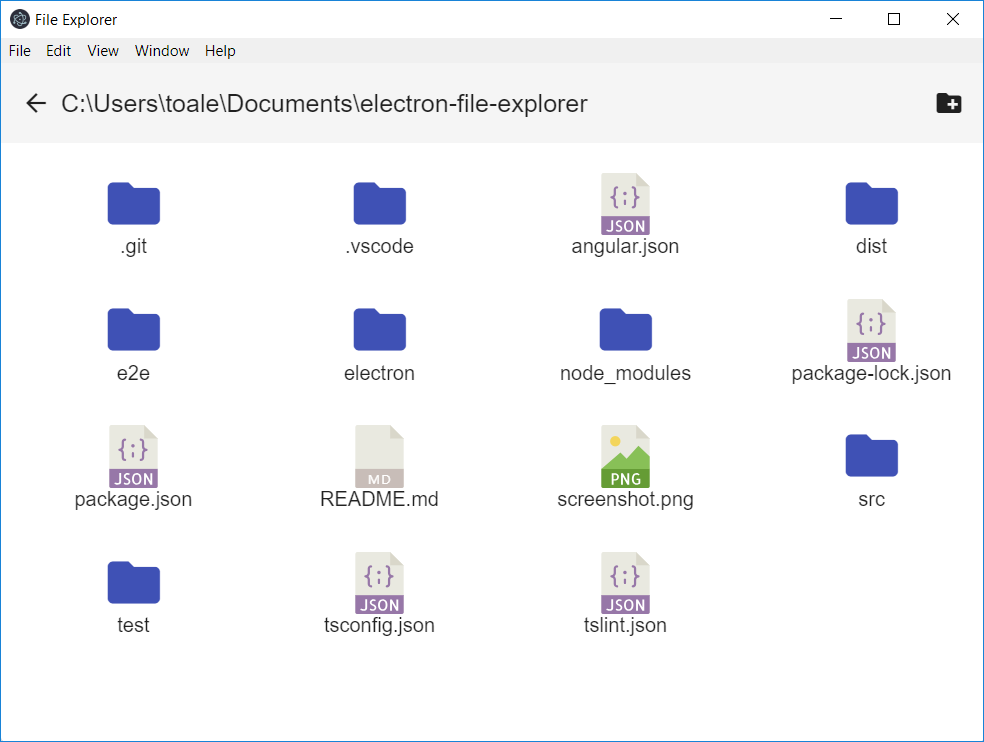
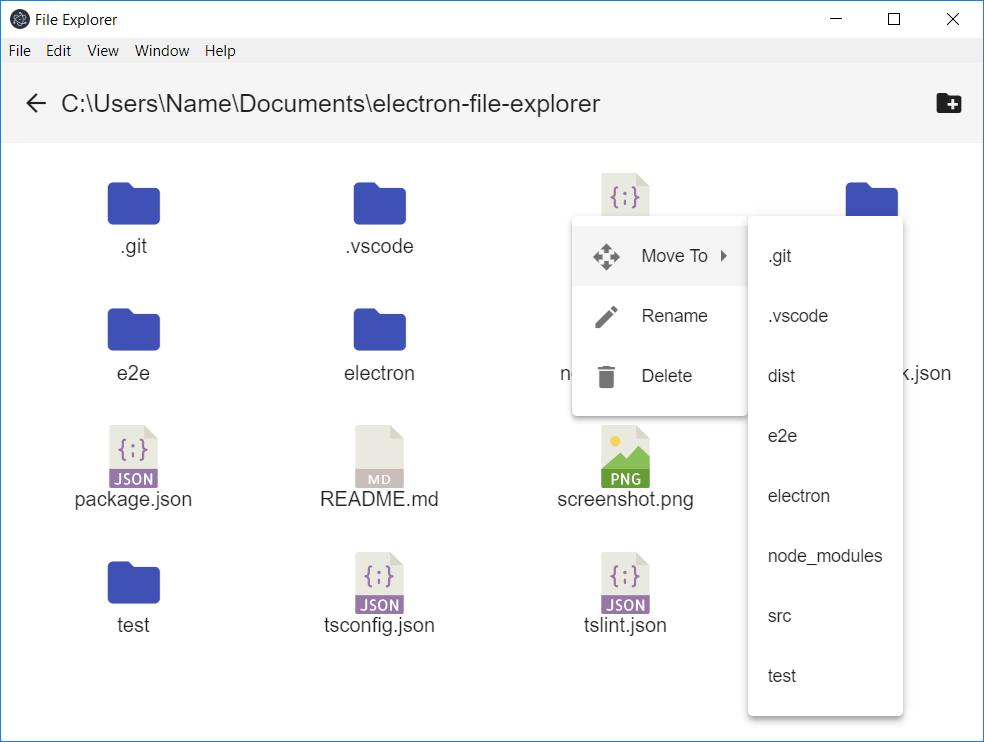
Update readme 2

diff --git a/README.md b/README.md
@@ -2,6 +2,8 @@
 
 ![Screenshot](https://raw.githubusercontent.com/taylor8294/electron-file-explorer/master/screenshot.png)
 
+A project I used to learn about combining Angular 7 and Electron into a functioning desktop app.
+
 ## Build and start in electron
 
 Run `npm run build && npm run electron`, the SVG icons needed in `src/assets/icons` are not included in this repo.
@@ -10,12 +12,14 @@ Run `npm run build && npm run electron`, the SVG icons needed in `src/assets/ico
 
 * Custom icons
 * Back button
-* Rename files and folders
-* Move files/folders to
-* Click to open files/folders
+* Context menu
+  - Rename/Move/Delete files and folders
+* Click to navigate into directories
+* Click to open files
 
 ## To do
 
 * Only tested on windows
+* ...
 
 (This project was originally generated with [Angular CLI](https://github.com/angular/angular-cli) version 7.1.3)
